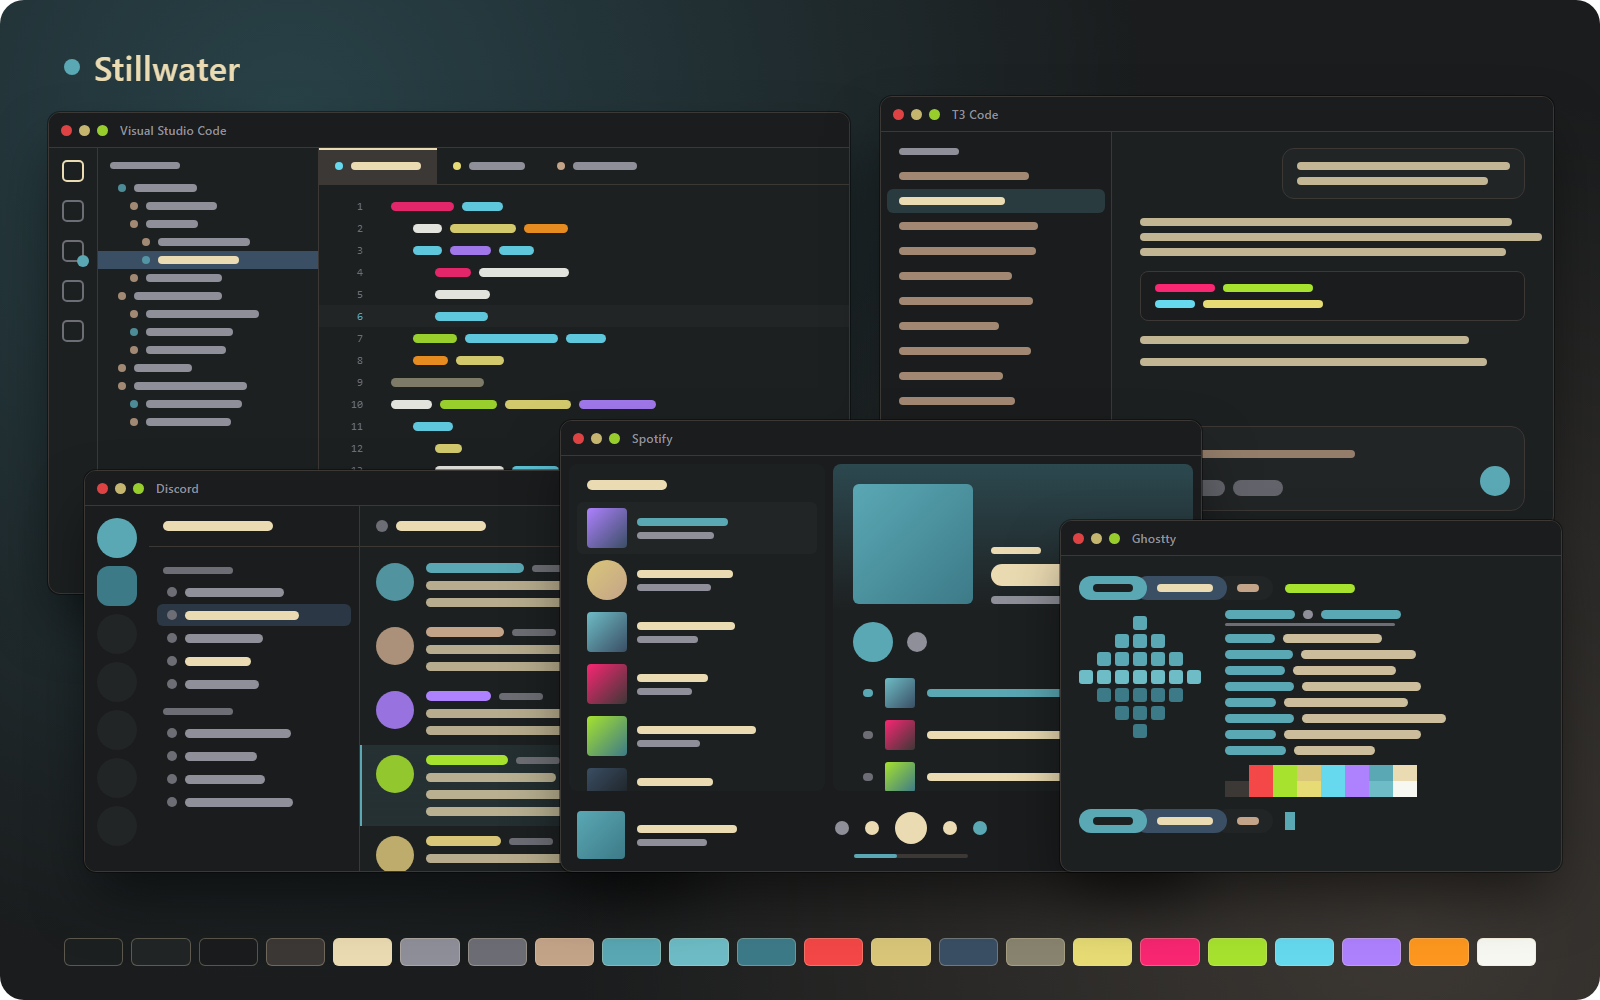
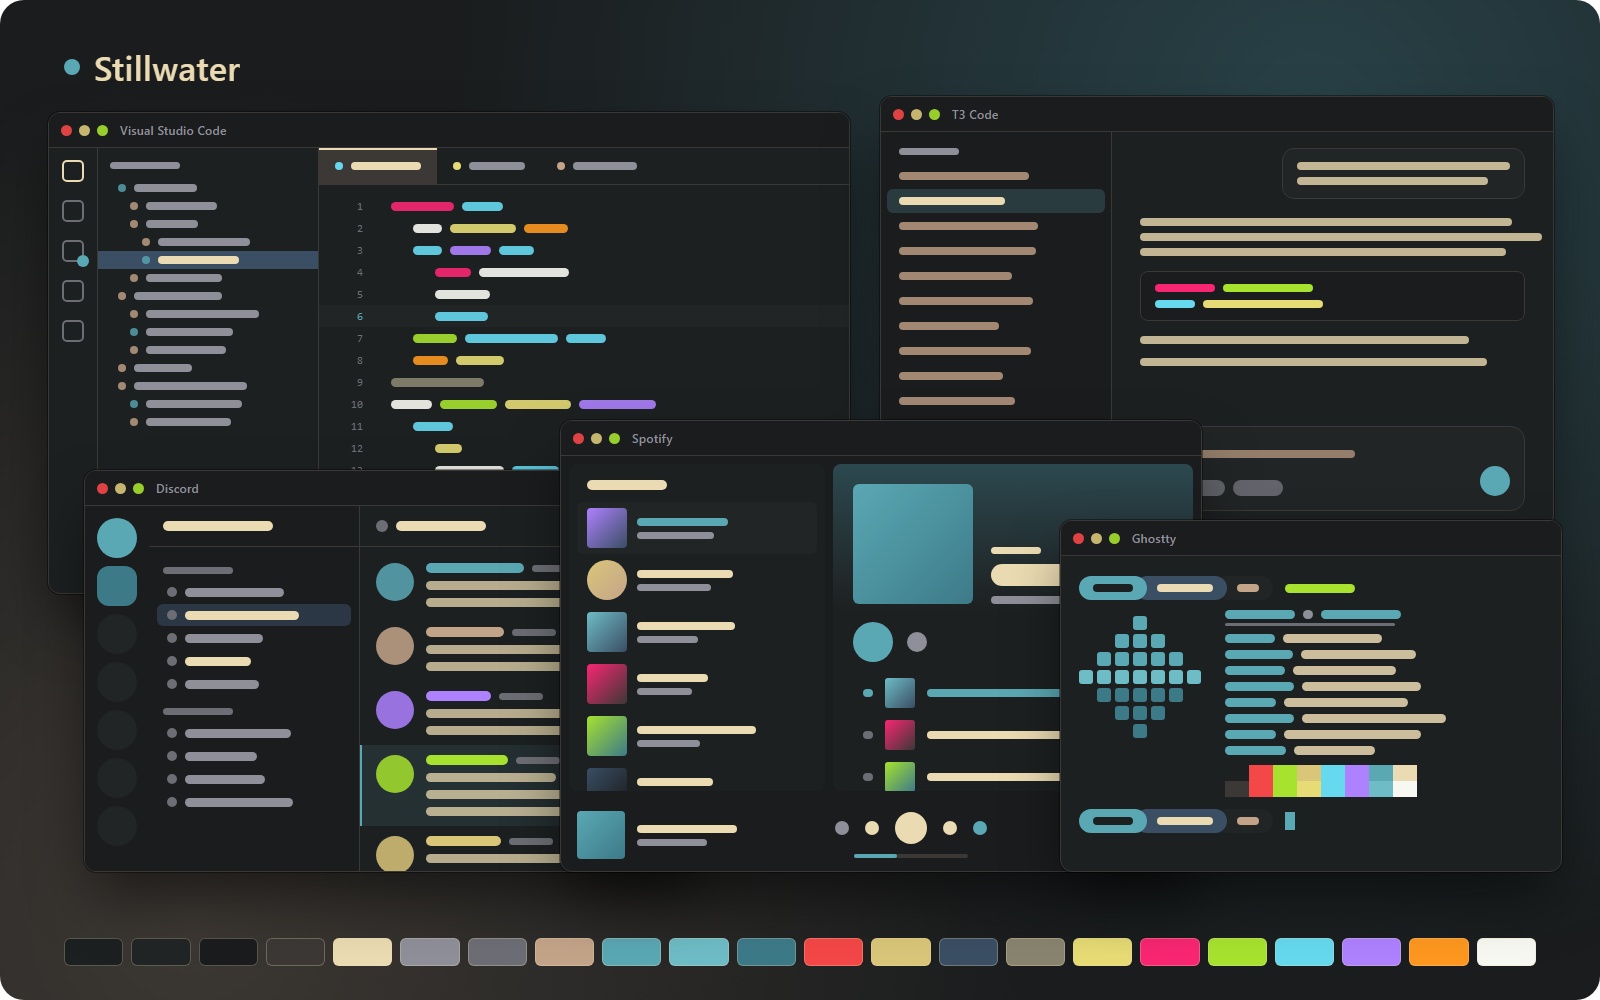
Mirror the showcase backdrop so the cyan glow sits top right and the warm glow bottom left.

diff --git a/showcase/render.ts b/showcase/render.ts
@@ -39,8 +39,8 @@ function swatches(): string {
 }
 
 const backdrop = [
-  `radial-gradient(circle at 18% 12%, ${P.accentDeep}66, transparent 55%)`,
-  `radial-gradient(circle at 88% 92%, ${P.warm}33, transparent 50%)`,
+  `radial-gradient(circle at 82% 12%, ${P.accentDeep}66, transparent 55%)`,
+  `radial-gradient(circle at 12% 92%, ${P.warm}33, transparent 50%)`,
   P.canvasOverlay,
 ].join(", ");
 
